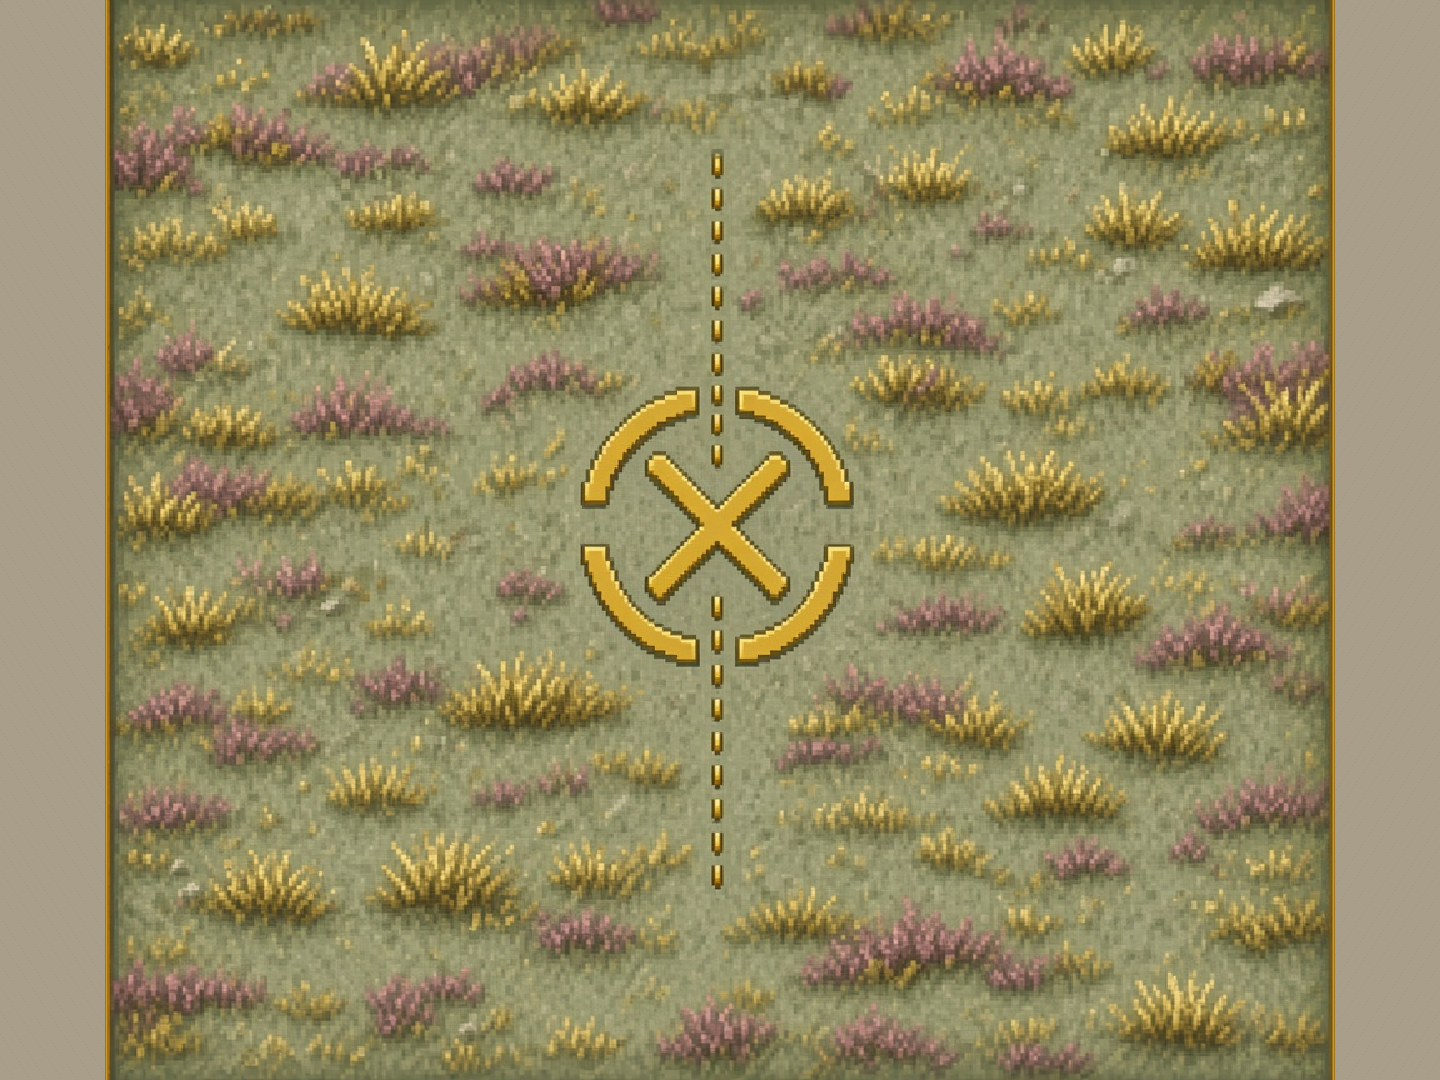
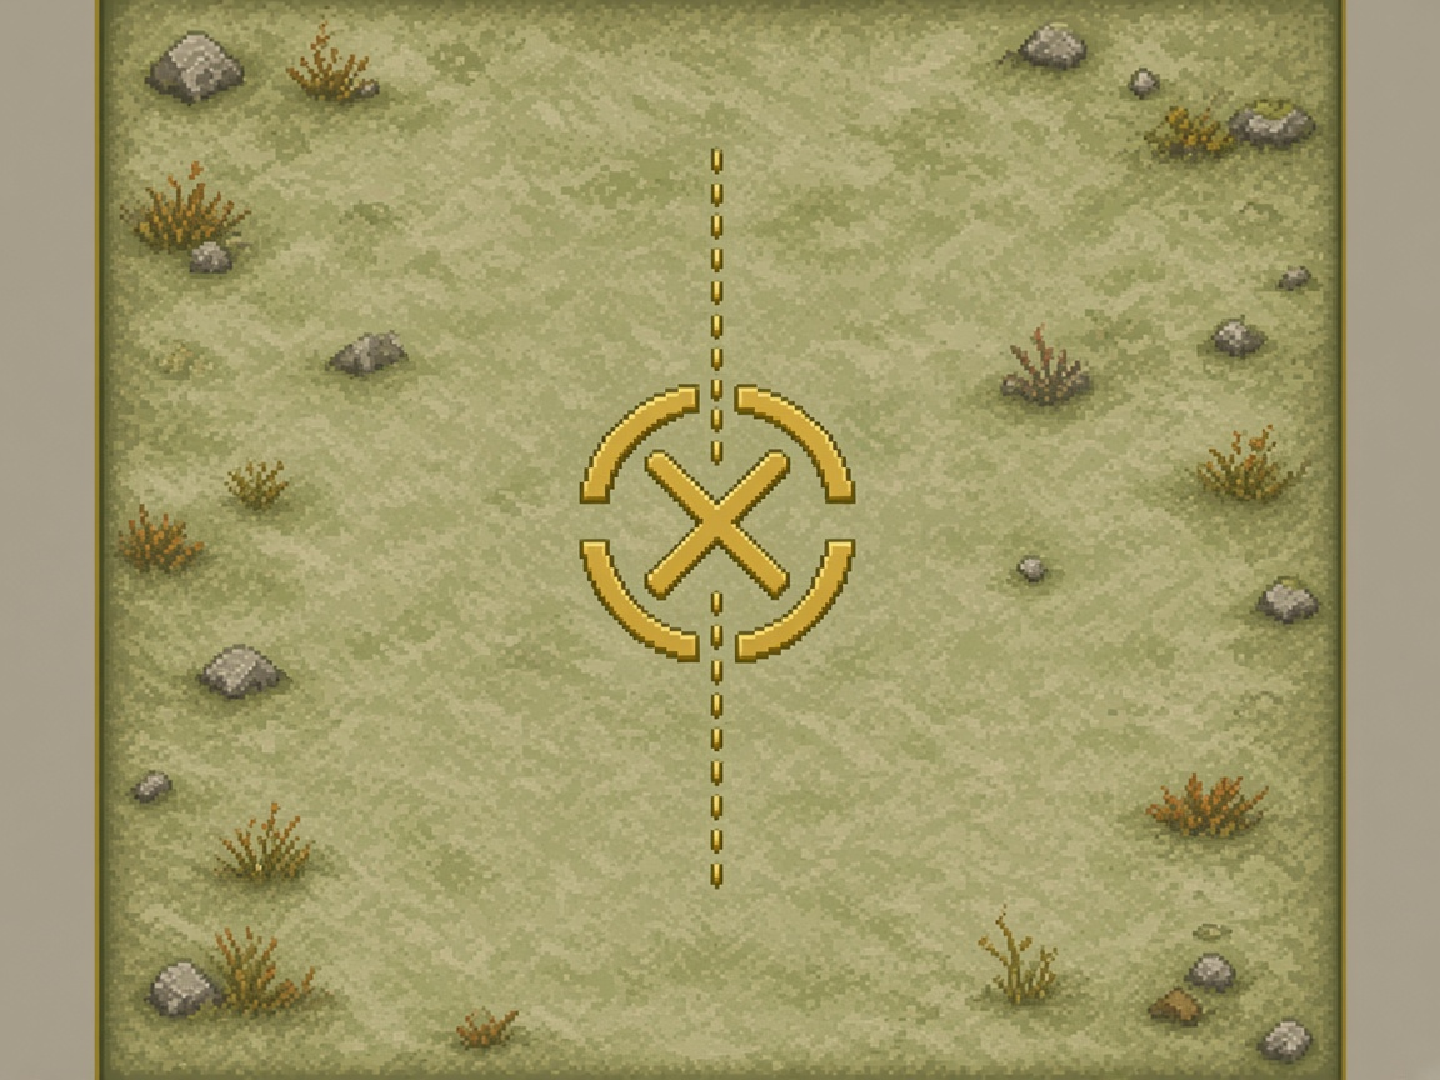
ui

diff --git a/playbook.md b/playbook.md
@@ -296,7 +296,7 @@ Match **court + cabinet + chips** load from the **2P / rival**. Files: `art/{nam
 | --- | --- | --- | --- |
 | Rivet | Circuit stadium | `rivet/rivet_court_circuit.png` | `rivet/rivet_ui_cabinet.png` |
 | Ash | Parking garage | `ash/ash_court_circuit.png` | `ash/ash_ui_cabinet.png` |
-| Kite | Soccer pitch | `kite/kite_court_circuit.png` | `kite/kite_ui_cabinet.png` |
+| Kite | Airfield tarmac | `kite/kite_court_circuit.png` | `kite/kite_ui_cabinet.png` |
 | Maru | Highland moor | `maru/maru_court_circuit.png` | `maru/maru_ui_cabinet.png` |
 | Quill | Forest aerie | `quill/quill_court_circuit.png` | `quill/quill_ui_cabinet.png` |
 | Hex | Night city grid (deep blue PCB) | `hex/hex_court_circuit.png` | `hex/hex_ui_cabinet.png` |
@@ -316,19 +316,19 @@ Top-down 4:3 empty parking garage lane as a sports court, grey concrete with oil
 **Highland moor**
 
 ```
-Top-down 4:3 empty Scottish highland moor as a volley court, light mottled sage peat and heather (NOT mowed soccer stripes), gold broken circle with X, empty plain stone chip gutters, no people, no HUD, pixel art, 1440x1080
+Top-down 4:3 empty Scottish highland moor as a volley court, mostly OPEN light mottled sage peat, only a handful of heather tufts near the gutters (NOT a busy meadow, NOT dense grass, NOT mowed soccer stripes), gold broken circle with X, empty plain stone chip gutters, no people, no HUD, pixel art, 1440x1080
 ```
 
-**Soccer pitch**
+**Airfield tarmac** (Kite)
 
 ```
-Top-down 4:3 empty soccer pitch court, green checkerboard grass, white penalty arcs and center circle, yard numbers 5 and 10, empty side gutters for chips, no people, no HUD, pixel art, 1440x1080
+Top-down 4:3 empty airfield runway tarmac as a volley court, grey concrete asphalt landing strip (NOT grass, NOT soccer, NOT lime turf), white dashed runway centerline, threshold chevrons, gold broken circle with X, empty dark asphalt chip gutters, no planes, no people, no HUD, pixel art, 1440x1080
 ```
 
 **Forest aerie** (Quill)
 
 ```
-Top-down 4:3 empty woodland clearing as a volley court, warm packed earth and sparse rust leaves (NOT neon, NOT PCB traces), gold broken circle with X, empty plain bark chip gutters, no people, no HUD, pixel art, 1440x1080
+Top-down 4:3 empty woodland clearing as a volley court, CLEAN even packed earth, sparse rust leaves at the edges only (NOT muddy, NOT stained, NOT dirty scuffs, NOT neon, NOT PCB traces), gold broken circle with X, empty plain bark chip gutters, no people, no HUD, pixel art, 1440x1080
 ```
 
 **Night city grid** (Hex)
